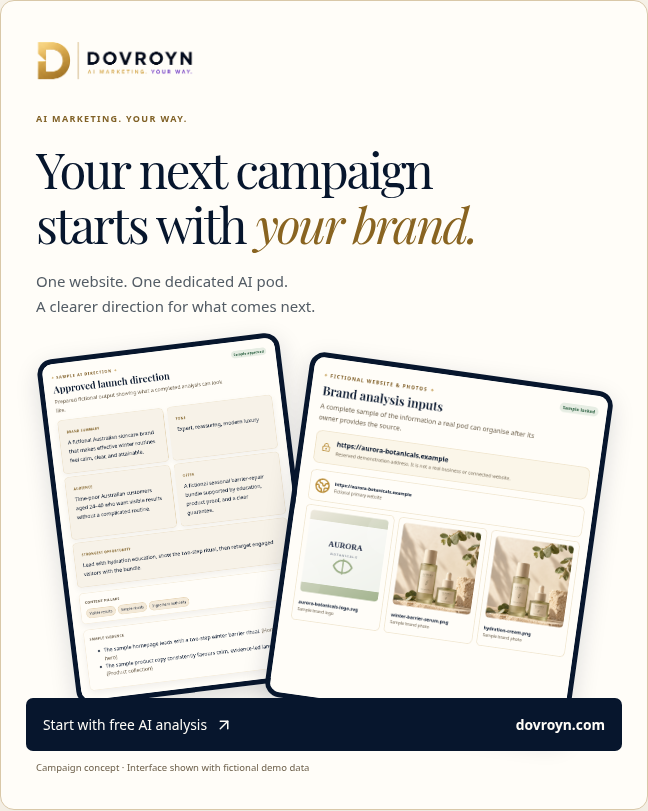
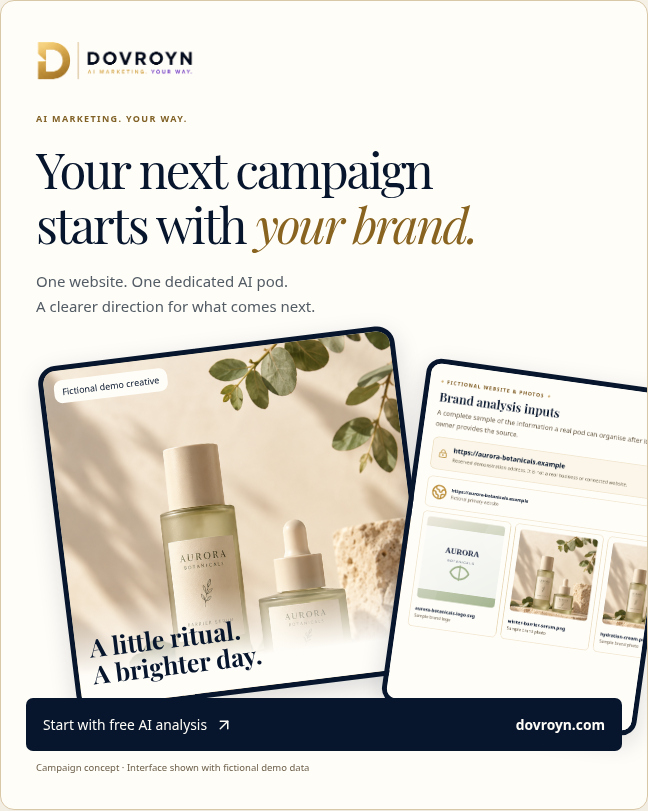
Fix pod card identity and strengthen campaign media

Changed region(s): [[0.0617, 0.4007, 1.0, 0.9248]]

diff --git a/src/visual-upgrade.css b/src/visual-upgrade.css
@@ -230,3 +230,19 @@ body { background: #F7F2E8; }
 .calendar-artwork-preview { max-width:380px; margin:16px 0; padding:24px; border-radius:16px; background:#f3e9d8; color:#07162d; }
 .calendar-artwork-preview img { width:100%; max-height:240px; object-fit:contain; }
 .calendar-artwork-preview h3 { font-family:'Playfair Display',serif; font-size:28px; }
+
+/* Auto rows prevent the taller cover from obscuring the actual pod title. */
+.pod-library-card { grid-template-rows:auto 1fr; }
+.pod-library-cover { min-height:184px; display:grid; grid-template-columns:88px 1fr; align-content:end; gap:16px; background:radial-gradient(ellipse at top right,#d8b86780,transparent 65%),#f3e9d8; }
+.pod-library-cover > span.pod-library-brandmark { width:88px; height:88px; display:grid; place-items:center; font-size:36px; }
+.pod-library-cover-identity { position:relative; min-width:0; color:#07162d; }
+.pod-library-cover-identity strong { display:block; font:700 28px/1.15 'Playfair Display',serif; overflow-wrap:anywhere; }
+.pod-library-cover-identity > span { display:block; margin-top:8px; font-size:14px; }
+.pod-library-cover .status-tag { position:absolute; top:18px; left:22px; }
+.pod-library-cover.has-brand-photo:after { content:''; position:absolute; inset:0; z-index:-1; background:linear-gradient(transparent,#fffdf8ee 85%); }
+.promo-product-previews { position:relative; min-height:220px; }
+.promo-media-story { position:relative; width:67%; flex-shrink:0; height:100%; min-height:220px; border:5px solid #07162d; border-radius:18px; transform:rotate(-7deg); overflow:hidden; box-shadow:0 8px 25px #07162d26; background:#e5dbbc; }
+.promo-media-story > img { width:100%; height:100%; border:0; border-radius:0; transform:none; object-fit:cover; object-position:center; }
+.promo-media-story > span { position:absolute; top:10px; left:10px; padding:5px 8px; background:#fffdf8; color:#07162d; font-size:9px; border-radius:8px; }
+.promo-media-story > strong { position:absolute; bottom:0; left:0; right:0; padding:30px 14px 18px; background:linear-gradient(transparent,#fffdf8 70%); color:#07162d; font:700 25px/1.1 'Playfair Display',serif; }
+.promo-product-previews > img { width:48%; margin:28px 0 0 -28px; transform:rotate(8deg); }

diff --git a/src/components/DovroynAdExamples.jsx b/src/components/DovroynAdExamples.jsx
@@ -11,7 +11,7 @@ export default function DovroynAdExamples() {
         <p className="promo-kicker">AI MARKETING. YOUR WAY.</p>
         <h3>Your next campaign<br />starts with <em>your brand.</em></h3>
         <p className="promo-description">One website. One dedicated AI pod.<br />A clearer direction for what comes next.</p>
-        <div className="promo-product-previews"><img src="/demo/pod-analysis-preview.png" alt="Actual Dovroyn AI analysis interface displaying a clearly fictional Aurora sample" /><img src="/demo/pod-source-preview.png" alt="Actual Dovroyn source review interface with fictional demonstration assets" /></div>
+        <div className="promo-product-previews"><div className="promo-media-story"><img src="/demo/aurora-products.png" alt="Fictional Aurora product imagery demonstrating a brand-led creative" /><span>Fictional demo creative</span><strong>A little ritual.<br />A brighter day.</strong></div><img src="/demo/pod-source-preview.png" alt="Actual Dovroyn source review interface with fictional demonstration assets" /></div>
         <footer><span>Start with free AI analysis <ArrowUpRight size={18} /></span><strong>dovroyn.com</strong></footer>
         <small>Campaign concept · Interface shown with fictional demo data</small>
       </article>

diff --git a/src/components/pod/PodBrandCover.jsx b/src/components/pod/PodBrandCover.jsx
@@ -26,6 +26,7 @@ export default function PodBrandCover({ pod }) {
   return <div className={`pod-library-cover ${media.brand_photo ? 'has-brand-photo' : ''}`}>
     {media.brand_photo && <img className="pod-library-cover-photo" src={media.brand_photo} alt="" onError={() => setMedia(current => ({ ...current, brand_photo: '' }))} />}
     <span className="pod-library-brandmark">{media.logo ? <img src={media.logo} alt={`${pod.brand_name || pod.pod_name} logo`} onError={() => setMedia(current => ({ ...current, logo: '' }))} /> : initials}</span>
+    <div className="pod-library-cover-identity"><strong>{pod.brand_name || pod.pod_name || 'Your brand'}</strong><span>{pod.pod_name || 'Marketing pod'}</span></div>
     <span className="status-tag">{String(pod.status || 'created').replaceAll('_', ' ')}</span>
   </div>;
 }

diff --git a/docs/visual-upgrade/README.md b/docs/visual-upgrade/README.md
@@ -56,3 +56,11 @@ Both branches also extend the existing UI test harness module maps; keep the add
 ## Reproduce the local browser checks
 
 Start `npm run dev -- --host 0.0.0.0 --port 4173`. With Playwright, Chromium and axe-core available, run `node docs/visual-upgrade/browser-check.cjs` and `node docs/visual-upgrade/intake-check.cjs` from the repository root. Optional `PLAYWRIGHT_MODULE`, `CHROMIUM_PATH` and `AXE_SCRIPT` environment variables select existing tool installations without changing package dependencies. The development-only fixture files use explicitly intercepted I/O in these scripts; they are not a live-login bypass or production route.
+
+## Follow-up review
+
+Fixed the pod library cover/body overlap by replacing the legacy fixed grid row with automatic sizing. Brand and pod names now appear inside the cover and the pod title remains visible below; an 88px mark/initials fallback avoids an anonymous empty cover. Browser assertions check title bounds, mark size and mobile overflow. See `screenshots/pod-library-mobile-fixture.png` as well as the updated desktop capture.
+
+The first campaign concept now leads with labelled fictional product imagery alongside the actual source-review UI instead of two small-text interface captures. No performance claim was added.
+
+Free-analysis claim checked against repository implementation: `src/lib/plans.js` grants one free pod; `20261001071256_customer_onboarding_reconciliation.sql` replaces the former paid-only pod creation gate with a one-pod default. `api/ai/analyze.js` checks authentication, ownership and unlocked source, with no subscription requirement; `public.finalize_pod_analysis` likewise checks ownership/source rather than paid entitlement. No gates/pricing changed. Applied production migrations and a real free-account analysis remain unverified from this environment.
